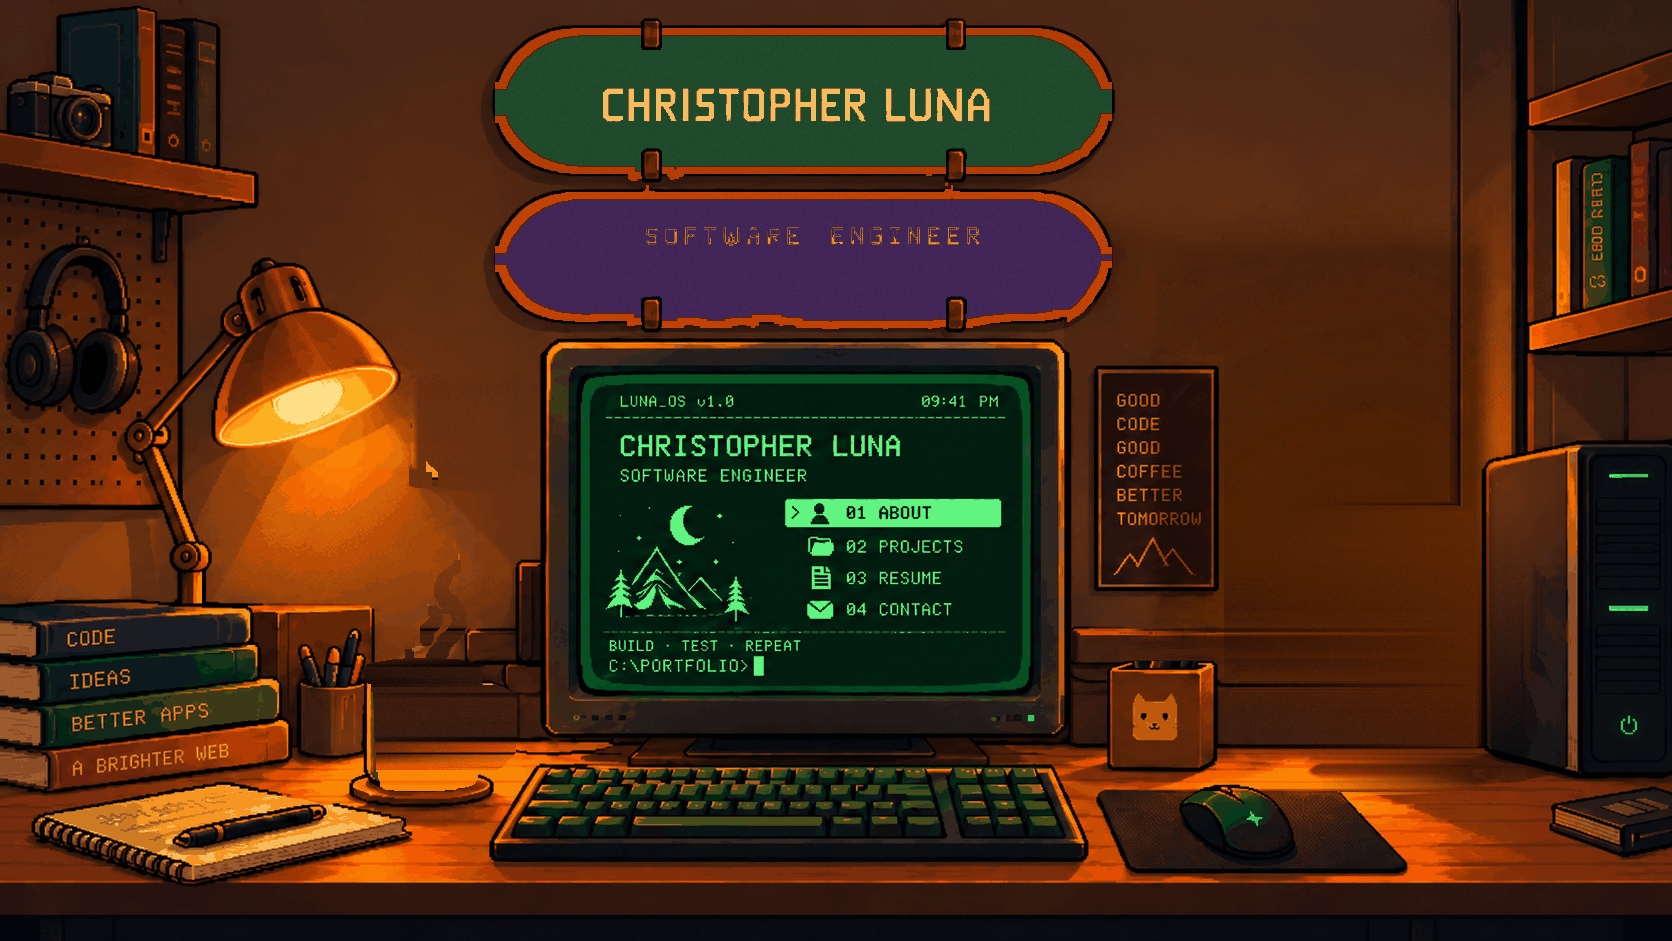
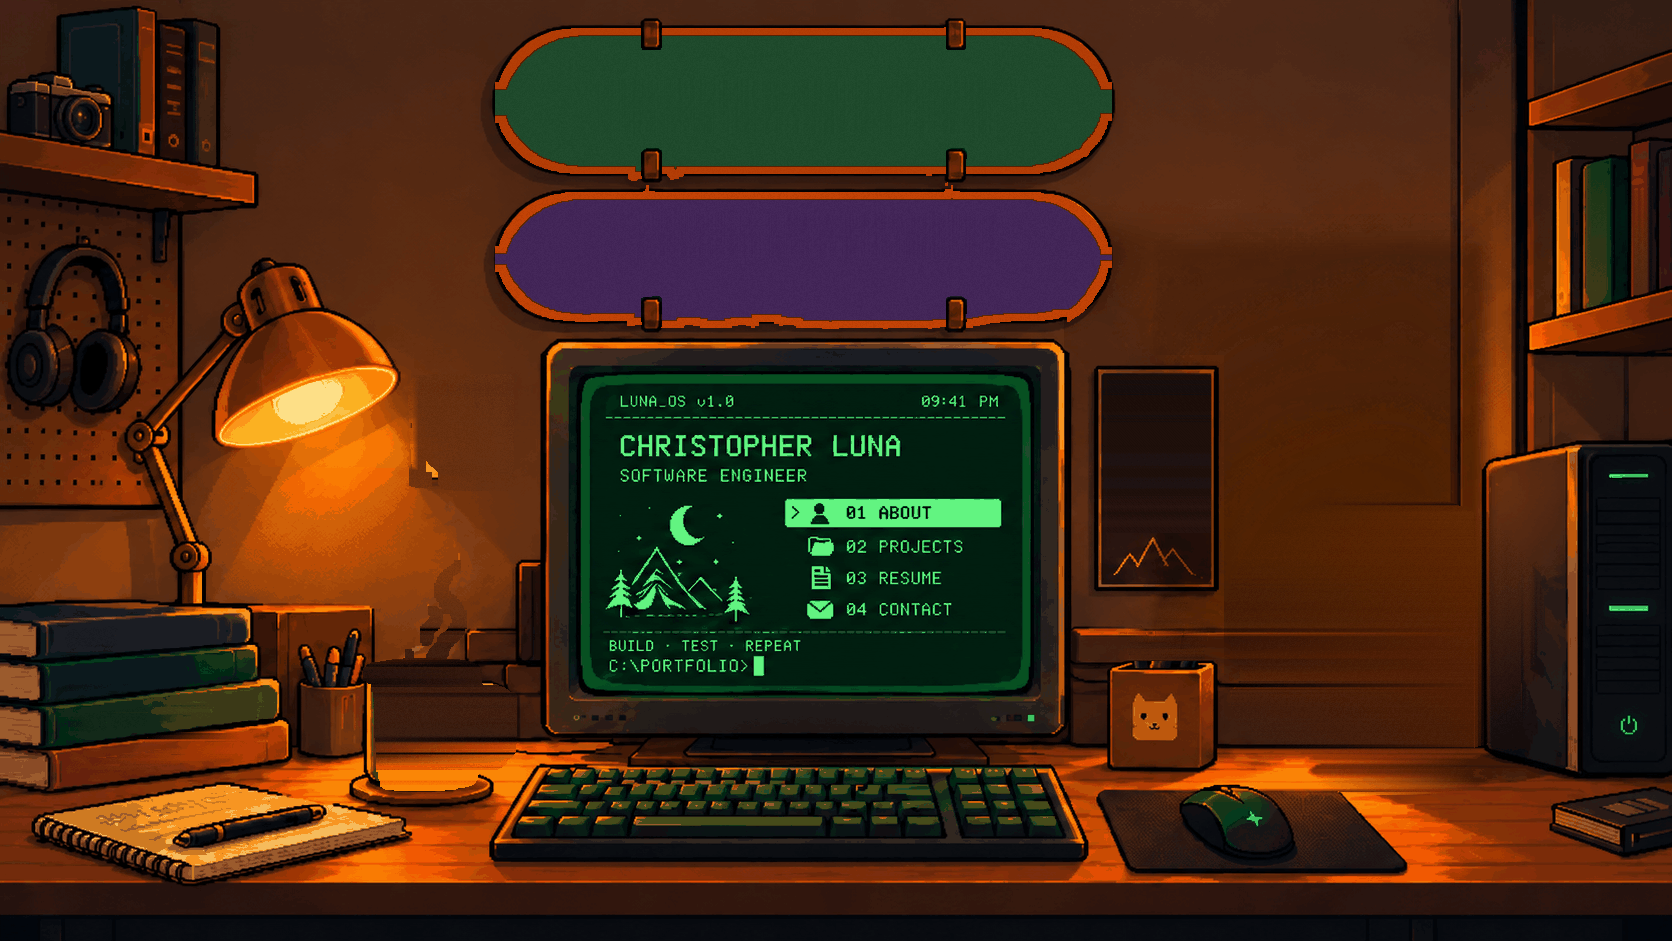
Set every word in the room in clean, legible type
The painted lettering on the decks, poster, book spines and shelf looked
machine-made, so scripts/cinema-blend.js clears it and the scene sets real
text there in Oxanium: the name and title on the decks, "make it work, make
it right, make it fast" on the poster, plain book titles on the spines. The
sticky notes read as a real to-do list, the screen uses the same face and
says SYSTEM READY, and it shows live while standing so the painted screen
text never appears.

diff --git a/components/cinema/CinemaScene.tsx b/components/cinema/CinemaScene.tsx
@@ -65,8 +65,6 @@ const STAND_MS = 1500;
 const SEAT_FRACTION: Record<LayoutKey, number> = { desktop: 0.6, mobile: 0.55 };
 /** Seated, the crop starts at least this far (art px) below the decks, so they stay out of view. */
 const DECK_CLEARANCE = 6;
-/** Progress at which the live OS takes over from the painted screen. */
-const SCREEN_ON_AT = 0.9;
 const HINT_DELAY_MS = 2200;
 
 /** The mug's tap: a knock that rocks it onto its heel, sloshes a little over the rim, and lets it settle. */
@@ -84,16 +82,59 @@ const NOTE_LAND_Y = 412; // art px below the wall spot: the desk behind the mug
 const NOTE_REST_S = 1.4;
 const NOTE_FADE_S = 0.6;
 
-/** What each sticky note says, in the order they come off the wall; laid over the blank pixel notes. */
+/** What each sticky note says, in the order they come off the wall: a real to-do list. */
 const NOTE_TEXTS = [
-  ["KEEP", "BUILDING", ":)"],
-  ["SHIP", "IT"],
+  ["WRITE", "TESTS"],
+  ["FIX NAV", "ON MOBILE"],
   ["DRINK", "WATER"],
-  ["COMMIT", "OFTEN"],
-  ["TODO:", "SLEEP"],
-  ["HELLO", "WORLD"],
-  ["ONE", "MORE", "BUG"],
+  ["UPDATE", "RESUME"],
+  ["STANDUP", "10:00"],
+  ["PUSH", "TO MAIN"],
+  ["GYM", "6 PM"],
 ];
+
+/**
+ * The words painted round the room, set in real type over the places the painting's own
+ * lettering was cleared (scripts/cinema-blend.js). Art px: x, y is the text's anchor (its
+ * centre, or its left middle with align "left"), size the font size, rotate follows the
+ * book spines' slant.
+ */
+interface WallText {
+  lines: string[];
+  x: number;
+  y: number;
+  size: number;
+  color: string;
+  align?: "center" | "left";
+  rotate?: number;
+  track?: number;
+  weight?: number;
+  leading?: number;
+}
+const WALL_TEXT: WallText[] = [
+  { lines: ["CHRISTOPHER LUNA"], x: 796, y: 106, size: 40, color: "#f6bb5c", weight: 700, track: 0.06 },
+  { lines: ["SOFTWARE ENGINEER"], x: 814, y: 235, size: 25, color: "#eb9a4c", weight: 600, track: 0.3 },
+  {
+    lines: ["MAKE IT", "WORK.", "MAKE IT", "RIGHT.", "MAKE IT", "FAST."],
+    x: 1116, y: 460, size: 17.5, color: "#e8862e", align: "left", weight: 600, track: 0.04, leading: 1.32,
+  },
+  { lines: ["ALGORITHMS"], x: 66, y: 637, size: 15, color: "#e7a256", align: "left", rotate: -2.2, track: 0.14, weight: 600 },
+  { lines: ["TYPESCRIPT"], x: 68, y: 677, size: 15, color: "#e7a256", align: "left", rotate: -2.7, track: 0.14, weight: 600 },
+  { lines: ["SYSTEM DESIGN"], x: 70, y: 719, size: 15.5, color: "#e7a256", align: "left", rotate: -4.8, track: 0.14, weight: 600 },
+  { lines: ["NETWORKS"], x: 72, y: 760, size: 16, color: "#f6cf93", align: "left", rotate: -4.6, track: 0.16, weight: 600 },
+];
+const wallTextStyle = (t: WallText): CSSProperties => ({
+  left: `${(t.x / art.size.width) * 100}%`,
+  top: `${(t.y / art.size.height) * 100}%`,
+  fontSize: `${(t.size / art.size.width) * 100}cqw`,
+  color: t.color,
+  fontWeight: t.weight ?? 600,
+  letterSpacing: `${t.track ?? 0}em`,
+  lineHeight: t.leading ?? 1,
+  textAlign: t.align ?? "center",
+  transform: `translate(${t.align === "left" ? "0" : "-50%"}, -50%) rotate(${t.rotate ?? 0}deg)`,
+  transformOrigin: t.align === "left" ? "0 50%" : "50% 50%",
+});
 /** Sprite files are given as site paths; bare names are the cinema-assets.py cut-outs. */
 const spriteSrc = (file: string) => (file.startsWith("/") ? file : `/cinema/${file}`);
 
@@ -299,7 +340,7 @@ function NoteFace({ index }: { index: number }) {
 /**
  * v2 — the lo-fi pixel desk. You arrive standing back, the whole painted room
  * filling the window. Clicking the monitor sits you down: two steps up to the desk,
- * then down into the chair, and the live LUNA_OS takes over the glass. Standing, the
+ * then down into the chair, and the LUNA_OS on the glass wakes up to your keys. Standing, the
  * desk is alive: knock the mug and it rocks and sloshes a little coffee, peel the
  * sticky note and it drifts down to the desk with the next one waiting behind it,
  * tap the pencil cup and the pens rattle, click the lamp to switch it off and on,
@@ -319,6 +360,7 @@ export default function CinemaScene() {
   const [fallingNote, setFallingNote] = useState<number | null>(null);
   const [lampOn, setLampOn] = useState(true);
   const [lampSwitches, setLampSwitches] = useState(0);
+  const [visits, setVisits] = useState(0); // each stand-up hands back a fresh screen at the menu
   const progressRef = useRef(0);
   const rafRef = useRef(0);
   const fallbackRef = useRef(0);
@@ -412,7 +454,10 @@ export default function CinemaScene() {
   const standUp = useCallback(() => {
     if (pose !== "seated") return;
     setPose("rising");
-    animateTo(0, () => setPose("standing"));
+    animateTo(0, () => {
+      setPose("standing");
+      setVisits((v) => v + 1);
+    });
   }, [pose, animateTo]);
 
   // ESC stands up once nothing is open on the screen (LofiOS closes its
@@ -671,8 +716,6 @@ export default function CinemaScene() {
     scaleRef.current = stageScale;
   }, [stageScale]);
   const screen = stage ? screenRect(stage) : null;
-  const screenOn =
-    pose === "seated" || (pose === "sitting" && progress >= SCREEN_ON_AT);
 
   const antStyle = (): CSSProperties | undefined => {
     if (!stage) return undefined;
@@ -730,6 +773,15 @@ export default function CinemaScene() {
             onLoad={() => setLoadedImage(art.image)}
             onError={() => setLoadedImage(art.image)}
           />
+
+          {/* The words on the decks, the poster and the book spines */}
+          {WALL_TEXT.map((t) => (
+            <p key={t.lines.join(" ")} className="cinema__wall-text" style={wallTextStyle(t)}>
+              {t.lines.map((line, i) => (
+                <span key={i}>{line}</span>
+              ))}
+            </p>
+          ))}
 
           {/* The lamp's head with the bulb out, over the painted one */}
           <div
@@ -910,7 +962,7 @@ export default function CinemaScene() {
           <div className="cinema__dark" aria-hidden="true" />
         </div>
 
-        {/* The live screen rides the painted one; it only lights up seated */}
+        {/* The live screen rides the painted one: on all the time, only usable seated */}
         {screen && (
           <div
             className="cinema__screen"
@@ -924,7 +976,7 @@ export default function CinemaScene() {
               } as CSSProperties
             }
           >
-            {screenOn && <LofiOS initialPopup={pendingPopup} />}
+            <LofiOS key={visits} initialPopup={pendingPopup} interactive={pose === "seated"} />
           </div>
         )}
       </div>

diff --git a/components/cinema/LofiOS.tsx b/components/cinema/LofiOS.tsx
@@ -26,10 +26,17 @@ const formatClock = () =>
 /**
  * LUNA_OS as drawn in the lo-fi art: header bar with a live clock, name,
  * the moon-and-mountains illustration beside a numbered menu, and the
- * BUILD • TEST • REPEAT prompt. Opening an item swaps the body for the
+ * prompt. Opening an item swaps the body for the
  * same .EXE windows v1 uses. Arrow keys, Enter and 1–4 drive the menu.
  */
-export default function LofiOS({ initialPopup = null }: { initialPopup?: LofiPopup }) {
+export default function LofiOS({
+  initialPopup = null,
+  interactive = true,
+}: {
+  initialPopup?: LofiPopup;
+  /** Standing back, the screen just shows; keys and clicks only reach it once you sit down. */
+  interactive?: boolean;
+}) {
   const [selected, setSelected] = useState(0);
   const [activeApp, setActiveApp] = useState<AppId | null>(null);
   const [popup, setPopup] = useState<LofiPopup>(initialPopup);
@@ -45,6 +52,7 @@ export default function LofiOS({ initialPopup = null }: { initialPopup?: LofiPop
   const close = useCallback(() => setActiveApp(null), []);
 
   useEffect(() => {
+    if (!interactive) return;
     const onKey = (e: KeyboardEvent) => {
       if (e.key === "Escape") {
         if (popup) setPopup(null);
@@ -68,7 +76,7 @@ export default function LofiOS({ initialPopup = null }: { initialPopup?: LofiPop
     };
     window.addEventListener("keydown", onKey);
     return () => window.removeEventListener("keydown", onKey);
-  }, [popup, activeApp, selected, close]);
+  }, [interactive, popup, activeApp, selected, close]);
 
   const { screenArt } = manifest;
 
@@ -94,13 +102,14 @@ export default function LofiOS({ initialPopup = null }: { initialPopup?: LofiPop
               draggable={false}
               className="lofi__art"
             />
-            <nav aria-label="Portfolio sections">
+            <nav aria-label="Portfolio sections" aria-hidden={!interactive || undefined}>
               <ul className="lofi__menu">
                 {ITEMS.map((item, i) => (
                   <li key={item.id}>
                     <button
                       type="button"
                       className={`lofi__item ${i === selected ? "lofi__item--active" : ""}`}
+                      tabIndex={interactive ? 0 : -1}
                       onMouseEnter={() => setSelected(i)}
                       onFocus={() => setSelected(i)}
                       onClick={() => setActiveApp(item.id)}
@@ -130,7 +139,7 @@ export default function LofiOS({ initialPopup = null }: { initialPopup?: LofiPop
 
       <div className="lofi__rule" aria-hidden="true" />
       <div className="lofi__footer" aria-hidden="true">
-        <span>BUILD • TEST • REPEAT</span>
+        <span>SYSTEM READY</span>
         <span className="lofi__prompt">
           C:\PORTFOLIO&gt;{activeApp ? `${activeApp.toUpperCase()}.EXE` : ""}
           <span className="cursor-blink" />

diff --git a/scripts/cinema-blend.js b/scripts/cinema-blend.js
@@ -169,6 +169,38 @@ const savePng = (buf, w, h, ch, file) => sharp(buf, { raw: { width: w, height: h
   }
   fill(img, dilate(pen, 1), [PEN[0] - 8, PEN[1] - 2, PEN[2] + 8, PEN[3]], 'row', 9);
 
+  // ---- lettering: the painting's own words go; the scene sets real type in their place ----
+  // decks: each lettering box is filled down its columns from the face just above and below it
+  const block = (boxes) => { const m = new Uint8Array(W * H); for (const [x0, y0, x1, y1] of boxes) for (let y = y0; y <= y1; y++) for (let x = x0; x <= x1; x++) m[y * W + x] = 1; return m; };
+  for (const [x0, y0, x1, y1] of [[596, 82, 998, 130], [634, 217, 994, 253]]) fill(img, block([[x0, y0, x1, y1]]), [x0, y0 - 4, x1, y1 + 4], 'col', 19);
+  // poster, book spines, the shelf's spines
+  const POSTER = [[1107, 375, 1210, 532]], BOOKS = [[60, 618, 128, 652], [62, 660, 140, 692], [64, 698, 216, 740], [64, 736, 236, 780]];
+  const SHELF = [[1586, 168, 1606, 290], [1628, 190, 1652, 286]];
+  // the poster's panel is flat and dark between bright frame lines (x 1100, 1212): each row of the
+  // text area takes the colour of that row's own left margin, which never had letters
+  {
+    const [px0, py0, px1, py1] = POSTER[0];
+    for (let y = py0; y <= py1; y++) {
+      const ref = [0, 0, 0];
+      for (let x = 1102; x <= 1106; x++) for (let c = 0; c < 3; c++) ref[c] += img[(y * W + x) * 3 + c] / 5;
+      for (let x = px0; x <= px1; x++) {
+        const i = y * W + x, g = ((Math.imul(i, 2654435761) >>> 24) / 255 - 0.5) * 4;
+        for (let c = 0; c < 3; c++) img[i * 3 + c] = Math.max(0, Math.min(255, Math.round(ref[c] + g)));
+      }
+    }
+  }
+  // the spines are shaded across and lit warm; a letter is well above its row's spine colour
+  const bookMask = new Uint8Array(W * H);
+  for (const [x0, y0, x1, y1] of BOOKS) for (let y = y0; y <= y1; y++) {
+    const ls = []; for (let x = x0; x <= x1; x++) ls.push(lum(img, y * W + x));
+    const med = ls.slice().sort((a, b) => a - b)[ls.length >> 1];
+    for (let x = x0; x <= x1; x++) if (lum(img, y * W + x) > med + 38 && img[(y * W + x) * 3] > 130) bookMask[y * W + x] = 1;
+  }
+  // grown by 3 so each letter's dark outline goes with it
+  fill(img, dilate(bookMask, 3), [56, 614, 242, 784], 'row', 13);
+  // the shelf's spines stand upright: fill their text columns top to bottom
+  fill(img, block(SHELF), [1580, 164, 1658, 294], 'col', 17);
+
   // 256 colours, saved lossless, like the rest of the painting's pipeline (about 410 KB)
   const quant = await sharp(img, { raw: { width: W, height: H, channels: 3 } }).png({ palette: true, colours: 256, dither: 0 }).toBuffer();
   await sharp(quant).webp({ lossless: true, effort: 6 }).toFile(path.join(CIN, 'desk.webp.tmp'));

diff --git a/components/cinema/cinema.css b/components/cinema/cinema.css
@@ -33,6 +33,7 @@
 
 .cinema__stage {
   position: absolute;
+  container-type: inline-size; /* the wall text and notes size with the painting */
   opacity: 0;
   transition: opacity 0.5s ease;
 }
@@ -98,6 +99,21 @@
   z-index: 5;
 }
 
+/* the words on the decks, the poster and the book spines, in the room's typeface */
+.cinema__wall-text {
+  position: absolute;
+  z-index: 2;
+  margin: 0;
+  display: flex;
+  flex-direction: column;
+  font-family: var(--font-lofi), sans-serif;
+  white-space: nowrap;
+  text-transform: uppercase;
+  text-shadow: 0 0.07em 0 rgba(20, 8, 2, 0.55);
+  pointer-events: none;
+  user-select: none;
+}
+
 /* the sticky notes: the next one waits under the top one; a peeled one falls in front of both */
 .cinema__note-under {
   pointer-events: none;
@@ -135,9 +151,11 @@
   flex-direction: column;
   align-items: center;
   justify-content: center;
-  font-family: var(--font-term);
-  font-size: 19.2cqw;
-  line-height: 1;
+  font-family: var(--font-lofi), var(--font-term), sans-serif;
+  font-size: 13.5cqw;
+  font-weight: 600;
+  line-height: 1.12;
+  letter-spacing: 0.02em;
   text-align: center;
   color: #2a1208;
   pointer-events: none;
@@ -271,8 +289,7 @@
   transition: opacity 0.22s ease;
 }
 
-.cinema--seated .cinema__screen,
-.cinema--sitting .cinema__screen:has(.lofi) {
+.cinema--ready .cinema__screen {
   opacity: 1;
 }
 
@@ -383,7 +400,7 @@ body:has(.cinema) .crt-flicker {
   padding: 3.5% 4.5% 3%;
   font-family: var(--font-lofi), var(--font-term), monospace;
   font-weight: 500;
-  font-size: calc(var(--screen-w) * 0.04);
+  font-size: calc(var(--screen-w) * 0.034); /* Oxanium runs wider than a pixel face */
   line-height: 1.2;
   color: var(--lofi-text);
   animation: lofi-in 0.25s steps(3);
@@ -392,7 +409,7 @@ body:has(.cinema) .crt-flicker {
 /* phones: the seated screen is only about 280px wide, so everything packs tighter, one line each */
 .cinema[data-layout="mobile"] .lofi {
   padding: 3% 4% 2.5%;
-  font-size: calc(var(--screen-w) * 0.046);
+  font-size: calc(var(--screen-w) * 0.04);
 }
 
 .cinema[data-layout="mobile"] .lofi__name {
@@ -468,6 +485,7 @@ body:has(.cinema) .crt-flicker {
 
 .lofi__title {
   margin-top: 0.15em;
+  white-space: nowrap;
   font-size: 1.05em;
   letter-spacing: 0.06em;
 }
@@ -509,6 +527,7 @@ body:has(.cinema) .crt-flicker {
   font-size: 1.2em;
   letter-spacing: 0.03em;
   text-align: left;
+  white-space: nowrap;
   color: inherit;
   border-radius: 0.15em;
 }

diff --git a/app/v2/page.tsx b/app/v2/page.tsx
@@ -1,11 +1,11 @@
 import type { Metadata } from "next";
-import { Pixelify_Sans } from "next/font/google";
+import { Oxanium } from "next/font/google";
 import CinemaScene from "@/components/cinema/CinemaScene";
 
-/** Chunky pixel face for the painted-style LUNA_OS; ASCII art keeps the monospace font. */
-const pixelify = Pixelify_Sans({
+/** A clean, squared, slightly futuristic face for every word in the room: the screen, the
+ *  notes, the decks, the poster and the book spines. ASCII art keeps the monospace font. */
+const oxanium = Oxanium({
   subsets: ["latin"],
-  weight: ["400", "500", "700"],
   variable: "--font-lofi",
 });
 
@@ -17,7 +17,7 @@ export const metadata: Metadata = {
 /** v2 preview: the lo-fi pixel desk. Unlinked; reachable via the dev switch. */
 export default function V2Page() {
   return (
-    <main className={pixelify.variable}>
+    <main className={oxanium.variable}>
       <h1 className="sr-only">Christopher Luna — Software Engineer Portfolio</h1>
       <CinemaScene />
     </main>

diff --git a/public/cinema/README.md b/public/cinema/README.md
@@ -4,7 +4,7 @@ Assets for the pixel-art "v2" room. Nothing here is used by v1.
 
 | File | What it is |
 |---|---|
-| `desk.webp` | The painting, 1672x941 ("Cozy Retro Developer Workspace"): no window, the name and title on two skateboard decks above the monitor. Phones cover-fit a portrait crop of the same image. The mug, the wall note and the plant are lifted out and the painting filled behind them; the lamp head is painted in place, and the wall, tower edge and desk behind the plant and the wall behind the cup's pens are rebuilt from the original painting by `scripts/cinema-blend.js`. The decks' faces are flattened to plain colour (green, plum) under the painted lettering; the wall right of the monitor, which the painting lit as if a second lamp stood there, is toned down so the desk lamp is the room's one light. 256-colour quantised, saved lossless. |
+| `desk.webp` | The painting, 1672x941 ("Cozy Retro Developer Workspace"): no window, the name and title on two skateboard decks above the monitor. Phones cover-fit a portrait crop of the same image. The mug, the wall note and the plant are lifted out and the painting filled behind them; the lamp head is painted in place, and the wall, tower edge and desk behind the plant and the wall behind the cup's pens are rebuilt from the original painting by `scripts/cinema-blend.js`. The same script clears the painting's own lettering (the decks, the poster, the book spines, the shelf's spines); the scene sets real type there instead (`WALL_TEXT` in `CinemaScene.tsx`, in Oxanium), and the live screen shows standing too, so none of the painted words show. The decks' faces are flattened to plain colour (green, plum) under the painted lettering; the wall right of the monitor, which the painting lit as if a second lamp stood there, is toned down so the desk lamp is the room's one light. 256-colour quantised, saved lossless. |
 | `lamp-off.png` | The lamp's head with the bulb out, laid exactly over the painted one when the lamp is switched off. |
 | `lamp-shade.png` | Quarter-resolution shadow (multiplied over the room) for the wall and desk the lamp lights; clear over the monitor's glass. |
 | `sprite-pen-1…3.png` | The three pens in the cat pencil cup, cut from the painting on one shared canvas; each rocks on its own base. |
